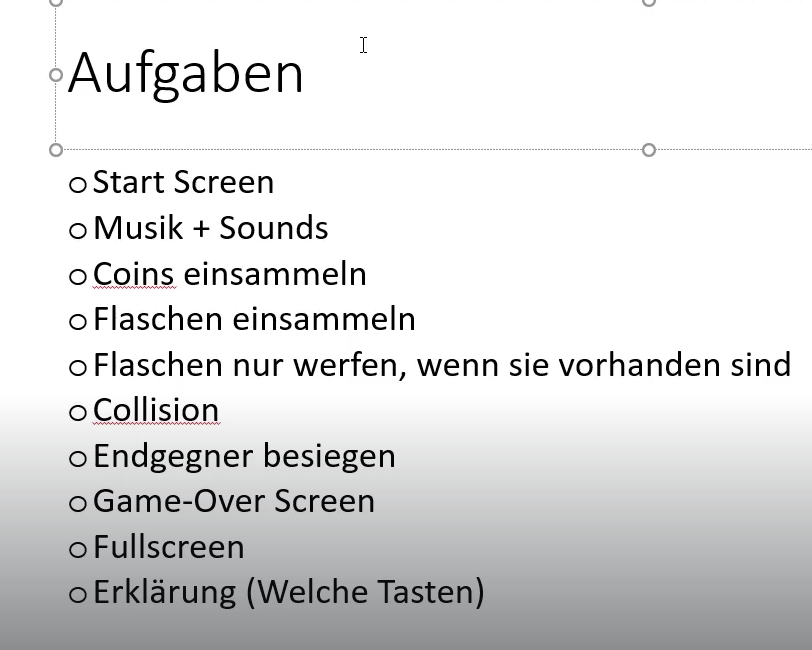
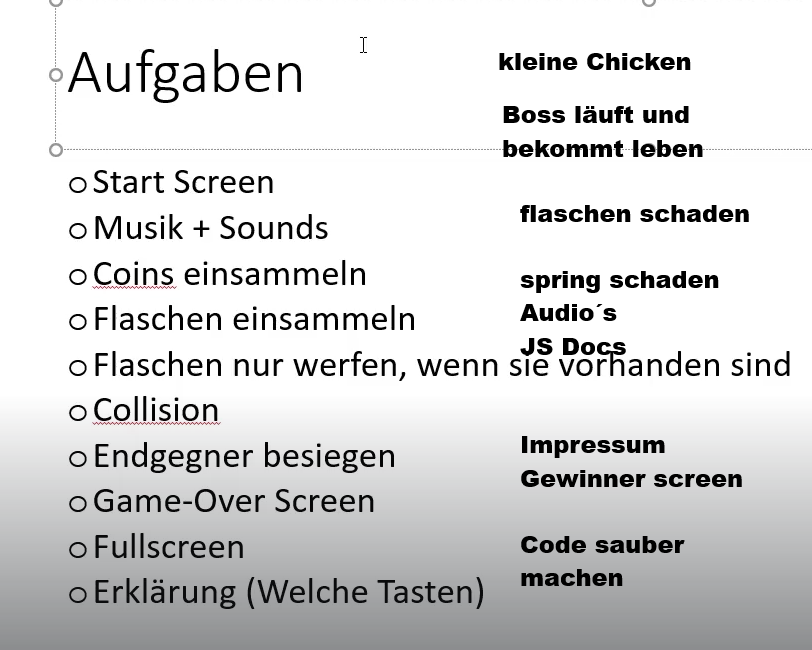
endboss moveing

diff --git a/models/endboss.class.js b/models/endboss.class.js
@@ -4,30 +4,63 @@ class Endboss extends MoveableObject {
     width = 300;
     y = -55;
     x = 2500;
+    bossActive = false;
 
 
     IMAGES_WALKING = [
-        '../img/4_enemie_boss_chicken/2_alert/G5.png',
-        '../img/4_enemie_boss_chicken/2_alert/G6.png',
-        '../img/4_enemie_boss_chicken/2_alert/G7.png',
-        '../img/4_enemie_boss_chicken/2_alert/G8.png',
-        '../img/4_enemie_boss_chicken/2_alert/G9.png',
-        '../img/4_enemie_boss_chicken/2_alert/G10.png',
-        '../img/4_enemie_boss_chicken/2_alert/G11.png',
-        '../img/4_enemie_boss_chicken/2_alert/G12.png'
+        '../img/4_enemie_boss_chicken/1_walk/G1.png',
+        '../img/4_enemie_boss_chicken/1_walk/G2.png',
+        '../img/4_enemie_boss_chicken/1_walk/G3.png',
+        '../img/4_enemie_boss_chicken/1_walk/G4.png',
     ];
+
+    IMAGES_ALERT = [
+        'img/4_enemie_boss_chicken/2_alert/G5.png',
+        'img/4_enemie_boss_chicken/2_alert/G6.png',
+        'img/4_enemie_boss_chicken/2_alert/G7.png',
+        'img/4_enemie_boss_chicken/2_alert/G8.png',
+        'img/4_enemie_boss_chicken/2_alert/G9.png',
+        'img/4_enemie_boss_chicken/2_alert/G10.png',
+        'img/4_enemie_boss_chicken/2_alert/G11.png',
+        'img/4_enemie_boss_chicken/2_alert/G12.png'
+    ];
+
+    IMAGES_ATTACK = [
+        'img/4_enemie_boss_chicken/3_attack/G13.png',
+        'img/4_enemie_boss_chicken/3_attack/G14.png',
+        'img/4_enemie_boss_chicken/3_attack/G15.png',
+        'img/4_enemie_boss_chicken/3_attack/G16.png',
+        'img/4_enemie_boss_chicken/3_attack/G17.png',
+        'img/4_enemie_boss_chicken/3_attack/G18.png',
+        'img/4_enemie_boss_chicken/3_attack/G19.png',
+        'img/4_enemie_boss_chicken/3_attack/G20.png',
+    ]
 
     constructor() {
         super().loadImage(this.IMAGES_WALKING[0]);
         this.loadImages(this.IMAGES_WALKING);
+        this.loadImages(this.IMAGES_ALERT);
+        this.loadImages(this.IMAGES_ATTACK);
+        this.x = 2300;
+        this.speed = 0.2;
         this.animate()
     }
 
     animate() {
-        setInterval(() => {
-            this.playAnimation(this.IMAGES_WALKING)
-        }, 200);
 
+        setInterval(() => {
+            if (this.bossActive) {
+                this.moveLeft();
+            }
+        }, 1000 / 60);
+
+        this.playAnimations()
+    }
+
+    playAnimations() {
+        setInterval(() => {
+            this.playAnimation(this.IMAGES_ALERT);
+        }, 120);
     }
 
 };

diff --git a/models/world.class.js b/models/world.class.js
@@ -46,7 +46,11 @@ class World {
 
     exitGame = new ExitGame();
     throwableObjects = [];
+    endbossActivated = false;
 
+    get endboss() {
+        return this.level.enemies.find(e => e instanceof Endboss);
+    }
 
     constructor(canvas, keyboard) {
         this.ctx = canvas.getContext('2d');
@@ -68,7 +72,19 @@ class World {
             this.checkCoinCollected();
             this.checkBottleCollected()
             this.checkThrowObjects();
+            this.checkEndbossTrigger();
         }, 200);
+    }
+
+    checkEndbossTrigger() {
+        const triggerX = 1750;
+        if (this.character.x >= triggerX && !this.endbossActivated) {
+            const boss = this.endboss;
+            if (boss) {
+                boss.bossActive = true;
+                this.endbossActivated = true;
+            }
+        }
     }
 
     checkCollision() {
@@ -103,8 +119,6 @@ class World {
                 this.character.bottles++;
                 let percent = (this.character.bottles / this.character.maxBottles) * 100;
                 this.bottleBar.setPercentage(percent);
-                console.log(percent);
-
                 this.level.bottles.splice(index, 1);
             }
         });
@@ -162,11 +176,6 @@ class World {
         requestAnimationFrame(function () {
             self.draw()
         });
-    }
-
-
-    gameOver(){
-
     }
 
     addObjectsToMap(objects) {

diff --git a/models/moveable-object.class.js b/models/moveable-object.class.js
@@ -6,8 +6,7 @@ class MoveableObject extends DrawableObject {
     acceleration = 2.5;
     energy = 100;
     lastHit = 0;
-
-
+   
     applyGravity() {
         setInterval(() => {
             if (this.isAboveGround() || this.speedY > 0) {
@@ -32,15 +31,13 @@ class MoveableObject extends DrawableObject {
         const offsetX = mo.collisionOffsetX || 0;
         const offsetY = mo.collisionOffsetY || 0;
 
-        return this.x + offsetX < mo.x + mo.width - offsetX &&
-            this.x + this.width - offsetX > mo.x + offsetX &&
+        return this.x + offsetCharX < mo.x + mo.width - offsetX &&
+            this.x + this.width - offsetCharX > mo.x + offsetX &&
             this.y + offsetCharY < mo.y + mo.height - offsetY &&
             this.y + this.height - offsetCharY > mo.y + offsetY;
     }
 
-
     hit() {
-
         this.energy -= 20;
         this.energy = Math.max(0, this.energy);
         this.lastHit = new Date().getTime();
@@ -67,6 +64,8 @@ class MoveableObject extends DrawableObject {
 
     moveRight() {
         this.x += this.speed;
+        console.log(this.x);
+        
     }
 
     moveLeft() {

diff --git a/models/little-chicken.class.js b/models/little-chicken.class.js
@@ -1,0 +1,34 @@
+class LittleChicken extends MoveableObject {
+
+    height = 80;
+    width = 80;
+    y = 350;
+    collisionOffsetX = 20;
+    collisionOffsetY = -20;
+
+    IMAGES_WALKING = [
+        'img/3_enemies_chicken/chicken_small/1_walk/1_w.png',
+        'img/3_enemies_chicken/chicken_small/1_walk/2_w.png',
+        'img/3_enemies_chicken/chicken_small/1_walk/3_w.png'
+    ]
+
+    constructor() {
+        super().loadImage('./img/3_enemies_chicken/chicken_normal/1_walk/1_w.png');
+        this.loadImages(this.IMAGES_WALKING);
+
+        this.x = 500 + Math.random() * 500;
+        this.speed = 0.15 + Math.random() * 0.25;
+        this.animate()
+    }
+
+    animate() {
+        setInterval(() => {
+            this.moveLeft();
+        }, 1000 / 60);
+
+        setInterval(() => {
+            this.playAnimation(this.IMAGES_WALKING)
+        }, 100);
+
+    }
+}

diff --git a/models/drawable-object.class.js b/models/drawable-object.class.js
@@ -9,7 +9,7 @@ class DrawableObject {
     imageCache = {};
 
     drawFrame(ctx) {
-        if (this instanceof Character || this instanceof Chicken || this instanceof Coins || this instanceof Bottles) {
+        if (this instanceof Character || this instanceof Chicken || this instanceof Coins || this instanceof Bottles || this instanceof Endboss) {
             const offsetX = this instanceof Character ? this.hitboxOffsetX || 0 : this.collisionOffsetX || 0;
             const offsetY = this instanceof Character ? this.hitboxOffsetY || 0 : this.collisionOffsetY || 0;
 

diff --git a/models/character.class.js b/models/character.class.js
@@ -74,7 +74,7 @@ class Character extends MoveableObject {
     ]
 
     world;
-    gameOverImage; 
+    gameOverImage;
 
     constructor() {
         super().loadImage('./img/2_character_pepe/2_walk/W-21.png')
@@ -129,6 +129,7 @@ class Character extends MoveableObject {
         setInterval(() => {
             if (this.isDead()) {
                 this.playAnimation(this.IMAGES_DEAD)
+                clearAllIntervals();
                 setTimeout(() => {
                     gameOver();
                 }, 1000);

diff --git a/models/levels/level1.js b/models/levels/level1.js
@@ -4,10 +4,12 @@ function initLevel() {
 
     level1 = new Level(
         [
-            new Chicken(),
-            new Chicken(),
-            new Chicken(),
-            new Chicken(),
+            // new LittleChicken(),
+            // new LittleChicken(),
+            // new Chicken(),
+            // new Chicken(),
+            // new Chicken(),
+            // new Chicken(),
             new Endboss()
         ],
 

diff --git a/index.html b/index.html
@@ -14,6 +14,7 @@
     <script src="./models/moveable-object.class.js"></script>
     <script src="./models/character.class.js"></script>
     <script src="./models/chicken.class.js"></script>
+    <script src="./models/little-chicken.class.js"></script>
     <script src="./models/cloud.class.js"></script>
     <script src="./models/status-bar.class.js"></script>
     <script src="./models/world.class.js"></script>

diff --git a/scripts/start-screen.js b/scripts/start-screen.js
@@ -27,7 +27,6 @@ function stopGame() {
 function gameOver() {
     canvas.style.display = 'none';
     gameOverScreen.style.display = 'block';
-    clearAllIntervals();
 }
 
 function showgameSettings() {
